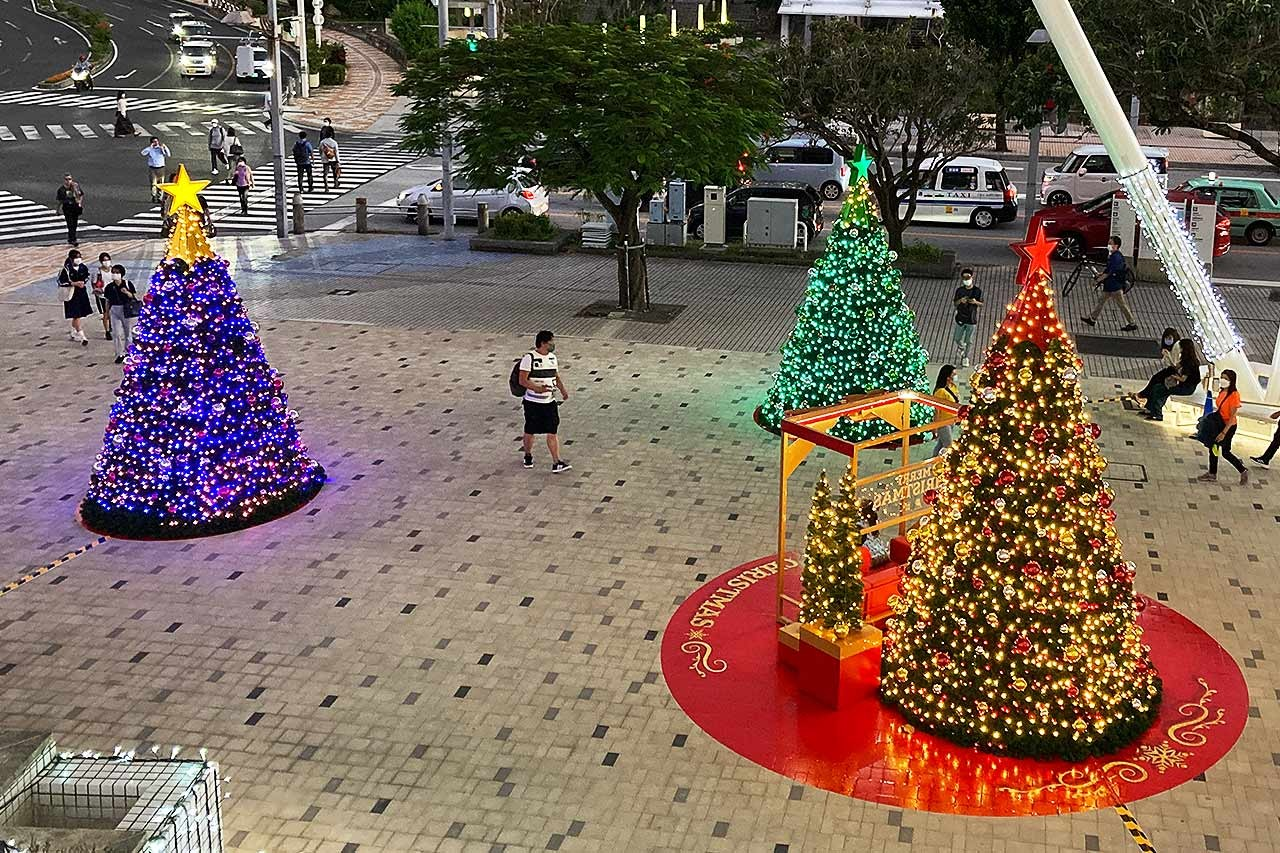
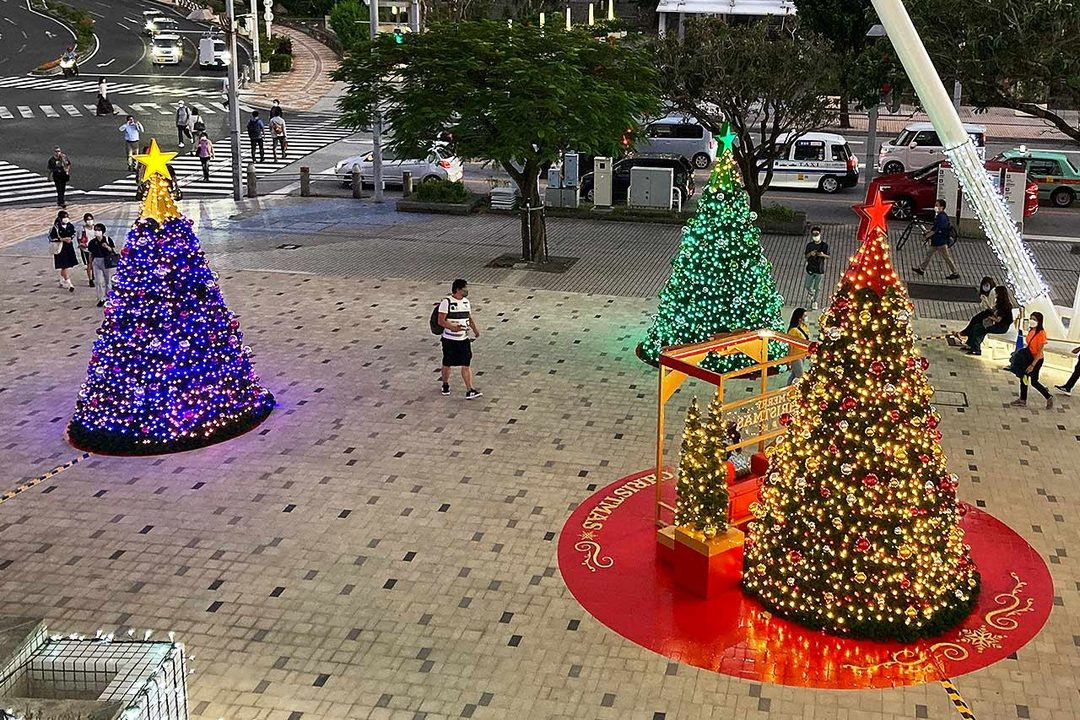
Integrate 2026 Winter Special Events: PARCO CITY & Kumoji illuminations in-line, plus 4-tier Winter Events Showcase in Tools

diff --git a/index.html b/index.html
@@ -1378,16 +1378,20 @@
           <span class="bg-indigo-100 text-indigo-800 text-xs font-black px-2.5 py-1 rounded-full">免稅 10% 優惠</span>
         </div>
 
-        <div class="grid grid-cols-1 sm:grid-cols-3 gap-3 my-2">
-          <div onclick="openImgModal('images/store_3coins_parco.jpg', '3COINS+plus PARCO CITY 店：精緻日系生活雜貨與兒童文具專區')" class="rounded-xl overflow-hidden border border-slate-200 cursor-pointer active:scale-98 transition">
+        <div class="grid grid-cols-2 sm:grid-cols-4 gap-3 my-2">
+          <div onclick="openImgModal('images/event_christmas_parco.jpg', 'PARCO CITY 2F 挑高中庭（Center Plaza）：冬季限定巨型室內聖誕樹與華麗垂飾')" class="rounded-xl overflow-hidden border border-slate-200 cursor-pointer active:scale-98 transition shadow-sm">
+            <img loading="lazy" decoding="async" src="images/event_christmas_parco.jpg" alt="PARCO CITY 巨型聖誕樹" class="w-full h-40 object-cover">
+            <div class="p-2 bg-white text-xs font-bold text-slate-800 truncate">🎄 2F 中庭巨型聖誕樹</div>
+          </div>
+          <div onclick="openImgModal('images/store_3coins_parco.jpg', '3COINS+plus PARCO CITY 店：精緻日系生活雜貨與兒童文具專區')" class="rounded-xl overflow-hidden border border-slate-200 cursor-pointer active:scale-98 transition shadow-sm">
             <img loading="lazy" decoding="async" src="images/store_3coins_parco.jpg" alt="3COINS 店面" class="w-full h-40 object-cover">
             <div class="p-2 bg-white text-xs font-bold text-slate-800 truncate">🛍 3COINS 生活雜貨</div>
           </div>
-          <div onclick="openImgModal('images/parco_sunset.jpg', 'PARCO CITY 戶外觀海甲板：欣賞絕美夕陽染紅東海')" class="rounded-xl overflow-hidden border border-slate-200 cursor-pointer active:scale-98 transition">
+          <div onclick="openImgModal('images/parco_sunset.jpg', 'PARCO CITY 戶外觀海甲板：欣賞絕美夕陽染紅東海')" class="rounded-xl overflow-hidden border border-slate-200 cursor-pointer active:scale-98 transition shadow-sm">
             <img loading="lazy" decoding="async" src="images/parco_sunset.jpg" alt="觀海甲板夕陽" class="w-full h-40 object-cover">
             <div class="p-2 bg-white text-xs font-bold text-slate-800 truncate">🌅 戶外露台夕陽拍照</div>
           </div>
-          <div onclick="openImgModal('images/store_jacks_steak.jpg', '傑克牛排館（Jack Steak House）夜間外觀實景')" class="rounded-xl overflow-hidden border border-slate-200 cursor-pointer active:scale-98 transition">
+          <div onclick="openImgModal('images/store_jacks_steak.jpg', '傑克牛排館（Jack Steak House）夜間外觀實景')" class="rounded-xl overflow-hidden border border-slate-200 cursor-pointer active:scale-98 transition shadow-sm">
             <img loading="lazy" decoding="async" src="images/store_jacks_steak.jpg" alt="傑克牛排" class="w-full h-40 object-cover">
             <div class="p-2 bg-white text-xs font-bold text-slate-800 truncate">🥩 傑克牛排大口吃肉</div>
           </div>
@@ -1396,7 +1400,7 @@
         <div class="space-y-3 text-xs sm:text-sm text-slate-800">
           <div class="flex items-start gap-3">
             <span class="step-badge">1</span>
-            <p><strong>攻佔全沖繩最大旗艦店（14:00 - 17:00）：</strong>Uniqlo、GU、3COINS、無印良品、ABC-MART 集中在同層。媽媽與爸爸為全家補齊發熱衣、冬裝與百元生活雜貨，滿 5,000 円立即由結帳櫃檯退稅 10%。</p>
+            <p><strong>攻佔全沖繩最大旗艦店 ＆ 2F 聖誕樹合影（14:00 - 17:00）：</strong>Uniqlo、GU、3COINS、無印良品、ABC-MART 集中在同層。媽媽與爸爸為全家補齊發熱衣、冬裝與百元生活雜貨，滿 5,000 円立即由結帳櫃檯退稅 10%！<br><span class="text-amber-800 font-bold">🎄【12月聖誕特別亮點】：</span>途經 <strong>2F 挑高中庭（Center Plaza）</strong>，現場矗立著數米高的「巨型室內聖誕樹」與金色華麗垂飾，全家在聖誕樹下拍下絕美全家福！</p>
           </div>
           <div class="flex items-start gap-3">
             <span class="step-badge">2</span>
@@ -1789,12 +1793,16 @@
           <span class="bg-indigo-100 text-indigo-800 text-xs font-black px-2.5 py-1 rounded-full">夜市繁華購物</span>
         </div>
 
-        <div class="grid grid-cols-1 sm:grid-cols-2 gap-3 my-2">
-          <div onclick="openImgModal('images/calbee_poteriko.jpg', 'Calbee+ 現炸 Poteriko 沖繩紅芋薯條：外酥內軟熱氣騰騰')" class="rounded-xl overflow-hidden border border-slate-200 cursor-pointer active:scale-98 transition">
+        <div class="grid grid-cols-1 sm:grid-cols-3 gap-3 my-2">
+          <div onclick="openImgModal('images/event_kumoji_illum.jpg', '縣廳前 Palette Kumoji：冬季久茂地彩燈節（くもじイルミネーション），數萬顆 LED 巨型聖誕樹與浪漫光廊')" class="rounded-xl overflow-hidden border border-slate-200 cursor-pointer active:scale-98 transition shadow-sm">
+            <img loading="lazy" decoding="async" src="images/event_kumoji_illum.jpg" alt="久茂地聖誕彩燈節" class="w-full h-44 object-cover">
+            <div class="p-2 bg-white text-xs font-bold text-slate-800 truncate">✨ 縣廳前久茂地巨型聖誕樹</div>
+          </div>
+          <div onclick="openImgModal('images/calbee_poteriko.jpg', 'Calbee+ 現炸 Poteriko 沖繩紅芋薯條：外酥內軟熱氣騰騰')" class="rounded-xl overflow-hidden border border-slate-200 cursor-pointer active:scale-98 transition shadow-sm">
             <img loading="lazy" decoding="async" src="images/calbee_poteriko.jpg" alt="Calbee+ 現炸紅芋薯條" class="w-full h-44 object-cover">
             <div class="p-2 bg-white text-xs font-bold text-slate-800 truncate">🍟 Calbee+ 現炸紅芋薯條</div>
           </div>
-          <div onclick="openImgModal('images/kokusai_dori.jpg', '國際通熱鬧夜景街景：免稅店、土產店、美食餐廳林立')" class="rounded-xl overflow-hidden border border-slate-200 cursor-pointer active:scale-98 transition">
+          <div onclick="openImgModal('images/kokusai_dori.jpg', '國際通熱鬧夜景街景：免稅店、土產店、美食餐廳林立')" class="rounded-xl overflow-hidden border border-slate-200 cursor-pointer active:scale-98 transition shadow-sm">
             <img loading="lazy" decoding="async" src="images/kokusai_dori.jpg" alt="國際通街景" class="w-full h-44 object-cover">
             <div class="p-2 bg-white text-xs font-bold text-slate-800 truncate">🏮 國際通繁華夜市街景</div>
           </div>
@@ -1804,7 +1812,7 @@
           <div class="font-black text-indigo-900 text-base">【逐步操作說明書】：</div>
           <div class="flex items-start gap-3">
             <span class="step-badge">1</span>
-            <p><strong>計程車 7 分鐘（800 円）抵達國際通：</strong>走出飯店攔計程車直達國際通起點，不用擠單軌電車。</p>
+            <p><strong>計程車 7 分鐘直達國際通起點 ＆ 漫步【縣廳前久茂地聖誕彩燈】：</strong>從 NEST NAHA 搭計程車（車資約 800 円）直接在「縣廳前 Palette Kumoji」下車。12 月夜晚正好迎來<strong>「久茂地冬季彩燈節（くもじイルミネーション）」</strong>，廣場前點亮數萬顆 LED 打造的<strong>巨型聖誕樹</strong>與浪漫光廊！全家先在此拍下絕美聖誕合照，接著步行拐個彎，直接無縫踏入熱鬧的國際通大道！</p>
           </div>
           <div class="flex items-start gap-3">
             <span class="step-badge">2</span>
@@ -2454,6 +2462,199 @@
           </p>
         </div>
       </div>
+
+      
+    <!-- Tool 0: 2026 Winter Special Events & Illuminations Showcase -->
+    <div class="bg-gradient-to-r from-slate-900 via-indigo-950 to-slate-900 text-white rounded-3xl p-6 sm:p-7 card-shadow border-2 border-amber-400/70 space-y-5">
+      <div class="border-b border-indigo-400/30 pb-4 flex flex-wrap items-center justify-between gap-3">
+        <div>
+          <div class="inline-flex items-center gap-1.5 bg-amber-400/20 text-amber-300 text-xs sm:text-sm font-black px-3 py-1 rounded-full border border-amber-400/40">
+            <i class="fa-solid fa-snowflake text-sky-300"></i>
+            <span>2026 沖繩冬季限定・節慶盛典特輯</span>
+          </div>
+          <h3 class="text-xl sm:text-2xl font-black text-white mt-2 flex items-center gap-2">
+            <span>🎄【冬季限定特別活動＆夜間彩燈推薦】</span>
+            <span class="text-xs bg-emerald-500/30 text-emerald-300 border border-emerald-400/40 font-bold px-2.5 py-0.5 rounded-lg hidden sm:inline">四大亮點按車程分級</span>
+          </h3>
+        </div>
+        <span class="text-xs bg-slate-800 text-slate-300 font-bold px-3 py-1.5 rounded-xl border border-slate-700">旅行期間：12/17(四) ~ 12/20(日)</span>
+      </div>
+
+      <p class="text-slate-300 text-xs sm:text-sm leading-relaxed">
+        12月中旬適逢沖繩年度<strong>「冬季夜間彩燈盛典」</strong>與<strong>「野生座頭鯨賞鯨海開首日」</strong>！以下為全家精心篩選距離下榻飯店（THE NEST NAHA）由近至遠的四大特別活動，附上活動實景照片、年齡亮點、車程車資預估、Google 地圖導航與現場溝通字卡，供隨時彈性參考選擇：
+      </p>
+
+      <div class="grid grid-cols-1 md:grid-cols-2 gap-4 pt-1">
+        <!-- Event 1: Whale Watching (4 mins) -->
+        <div class="bg-slate-800/90 rounded-2xl p-4.5 border-2 border-sky-400/50 space-y-3.5 shadow-md flex flex-col justify-between">
+          <div class="space-y-2.5">
+            <div class="flex items-center justify-between gap-2">
+              <span class="bg-sky-500 text-white text-xs font-black px-2.5 py-1 rounded-lg">近距首選・車程 4 分鐘</span>
+              <span class="text-amber-300 text-xs font-bold">12/19(六) 正式海開首航！</span>
+            </div>
+            <h4 class="text-base sm:text-lg font-black text-white">🐋 那霸三重城港・2026 野生座頭鯨賞鯨季首航</h4>
+            
+            <div onclick="openImgModal('images/event_whale_watching.jpg', '那霸三重城港出發：野生座頭鯨冬日洄游沖繩慶良間海域，壯麗破浪跳躍實景（12/19 正式海開）')" class="rounded-xl overflow-hidden border border-slate-700 cursor-pointer active:scale-98 transition shadow-sm">
+              <img loading="lazy" decoding="async" src="images/event_whale_watching.jpg" alt="野生座頭鯨破浪跳躍" class="w-full h-44 object-cover">
+              <div class="p-2 bg-slate-900 text-sky-300 text-xs font-bold truncate">📸 慶良間海域野生座頭鯨破浪躍出海面實景</div>
+            </div>
+
+            <ul class="text-xs text-slate-300 space-y-1.5 leading-relaxed pt-1">
+              <li>• <strong>地點距離：</strong>那霸三重城港（那霸市西 3-20），距離 NEST NAHA 僅 1.3 公里（計程車約 4 分鐘，車資約 600~700 円）。</li>
+              <li>• <strong>活動亮點：</strong>每年冬季野生座頭鯨南下交配育幼，12/19 正好為全沖繩首航日！若不上船，下午去港邊長堤吹風、看探鯨船隊集結出港亦是非常壯闊的海景體驗。</li>
+              <li>• <strong>孩子亮點：</strong>群祐（12歲）能近距離觀測巨型鯨魚噴水甩尾；唯唯（7歲）穿兒童救生衣搭平穩大船探險。</li>
+            </ul>
+          </div>
+
+          <div class="space-y-2 pt-2 border-t border-slate-700">
+            <a href="https://www.google.com/maps/search/?api=1&query=%E4%B8%89%E9%87%8D%E5%9F%8E%E6%B8%AF+%E9%82%A3%E8%A6%87%E5%B8%82%E8%A5%BF3-20" target="_blank" rel="noopener noreferrer" class="inline-flex items-center gap-1.5 bg-emerald-600 hover:bg-emerald-700 active:scale-95 transition text-white text-xs font-black px-3 py-1.5 rounded-xl shadow-sm">
+              <i class="fa-solid fa-map-location-dot text-amber-300"></i>
+              <span>開啟 三重城港 Google 地圖導航</span>
+              <i class="fa-solid fa-arrow-up-right-from-square text-[10px] text-white/80"></i>
+            </a>
+
+            <!-- Cue Card -->
+            <div class="bg-slate-900/90 rounded-xl p-3 border border-sky-400/40 space-y-2 text-xs">
+              <div class="flex items-center justify-between">
+                <span class="text-amber-300 font-bold">🚖 計程車手指字卡：</span>
+                <button onclick="copyDirectText(this)" data-copy="運転手さん、那覇三重城港（那覇市西3-20）までお願いします。ホエールウォッチングの集合場所へ行きます。" class="bg-sky-600 text-white font-bold px-2 py-0.5 rounded text-[11px] active:scale-95 transition">一鍵複製</button>
+              </div>
+              <p class="font-black text-white bg-slate-950 p-2 rounded border border-slate-800">
+                「運転手さん、那覇三重城港（那覇市西3-20）までお願いします。ホエールウォッチングの集合場所へ行きます。」
+              </p>
+              <p class="text-slate-400 text-[11px]">💡 中文：請載我們到那霸三重城港（西3-20），我們要去賞鯨船的集合報到處。</p>
+            </div>
+          </div>
+        </div>
+
+        <!-- Event 2: Itoman Peaceful Illumination (20 mins) -->
+        <div class="bg-slate-800/90 rounded-2xl p-4.5 border-2 border-amber-400/50 space-y-3.5 shadow-md flex flex-col justify-between">
+          <div class="space-y-2.5">
+            <div class="flex items-center justify-between gap-2">
+              <span class="bg-amber-500 text-slate-950 text-xs font-black px-2.5 py-1 rounded-lg">南部亮點・車程 20 分鐘</span>
+              <span class="text-amber-300 text-xs font-bold">每日 18:00 ~ 22:00</span>
+            </div>
+            <h4 class="text-base sm:text-lg font-black text-white">✨ 糸滿海灘和平彩燈節 2026（いとまんピースフル）</h4>
+            
+            <div onclick="openImgModal('images/event_itoman_illumination.jpg', '糸滿美々海灘和平彩燈節：以「光之王國 琉球」為主題，海濱大型琉球城堡光雕投影與冬夜沙灘燈海')" class="rounded-xl overflow-hidden border border-slate-700 cursor-pointer active:scale-98 transition shadow-sm">
+              <img loading="lazy" decoding="async" src="images/event_itoman_illumination.jpg" alt="糸滿和平彩燈節" class="w-full h-44 object-cover">
+              <div class="p-2 bg-slate-900 text-amber-300 text-xs font-bold truncate">📸 糸滿美々海灘大型光雕城堡與燈海實景</div>
+            </div>
+
+            <ul class="text-xs text-slate-300 space-y-1.5 leading-relaxed pt-1">
+              <li>• <strong>地點距離：</strong>美々ビーチいとまん（糸滿市西崎町 1-6-15），搭計程車走南向快速道路約 20~25 分鐘（車資約 3,200~3,600 円）。</li>
+              <li>• <strong>活動亮點：</strong>本島南部規模最大的冬季海濱燈節！2026 主題為「光之王國 ～琉球～」，結合光雕投影與海灘步道。</li>
+              <li>• <strong>孩子亮點：</strong>現場舉辦專為小朋友設計的<strong>「實境尋寶解謎遊戲」</strong>，群祐與唯唯拿著謎題地圖在燈海中闖關！</li>
+            </ul>
+          </div>
+
+          <div class="space-y-2 pt-2 border-t border-slate-700">
+            <a href="https://www.google.com/maps/search/?api=1&query=%E7%BE%8E%E3%80%85%E3%83%93%E3%83%BC%E3%83%81%E3%81%84%E3%81%A8%E3%81%BE%E3%82%93" target="_blank" rel="noopener noreferrer" class="inline-flex items-center gap-1.5 bg-emerald-600 hover:bg-emerald-700 active:scale-95 transition text-white text-xs font-black px-3 py-1.5 rounded-xl shadow-sm">
+              <i class="fa-solid fa-map-location-dot text-amber-300"></i>
+              <span>開啟 美々海灘彩燈節 Google 地圖導航</span>
+              <i class="fa-solid fa-arrow-up-right-from-square text-[10px] text-white/80"></i>
+            </a>
+
+            <!-- Cue Card -->
+            <div class="bg-slate-900/90 rounded-xl p-3 border border-amber-400/40 space-y-2 text-xs">
+              <div class="flex items-center justify-between">
+                <span class="text-amber-300 font-bold">🚖 計程車手指字卡：</span>
+                <button onclick="copyDirectText(this)" data-copy="運転手さん、美々ビーチいとまんのイルミネーション会場までお願いします。" class="bg-sky-600 text-white font-bold px-2 py-0.5 rounded text-[11px] active:scale-95 transition">一鍵複製</button>
+              </div>
+              <p class="font-black text-white bg-slate-950 p-2 rounded border border-slate-800">
+                「運転手さん、美々ビーチいとまんのイルミネーション会場までお願いします。」
+              </p>
+              <p class="text-slate-400 text-[11px]">💡 中文：請載我們到美々海灘（Bibi Beach）的彩燈節活動會場，謝謝。</p>
+            </div>
+          </div>
+        </div>
+
+        <!-- Event 3: American Village Christmas (35 mins) -->
+        <div class="bg-slate-800/90 rounded-2xl p-4.5 border-2 border-purple-400/50 space-y-3.5 shadow-md flex flex-col justify-between">
+          <div class="space-y-2.5">
+            <div class="flex items-center justify-between gap-2">
+              <span class="bg-purple-600 text-white text-xs font-black px-2.5 py-1 rounded-lg">中部經典・車程 35 分鐘</span>
+              <span class="text-purple-300 text-xs font-bold">每日 17:00 ~ 24:00 免費</span>
+            </div>
+            <h4 class="text-base sm:text-lg font-black text-white">🎅 北谷美浜美國村・Christmas Village 聖誕嘉年華</h4>
+            
+            <div onclick="openImgModal('images/event_american_village.jpg', '北谷美浜美國村聖誕夜景：巨型聖誕老人、摩天輪光影與海濱長廊萬顆彩燈')" class="rounded-xl overflow-hidden border border-slate-700 cursor-pointer active:scale-98 transition shadow-sm">
+              <img loading="lazy" decoding="async" src="images/event_american_village.jpg" alt="美國村聖誕嘉年華" class="w-full h-44 object-cover">
+              <div class="p-2 bg-slate-900 text-purple-300 text-xs font-bold truncate">📸 北谷美國村美式童話聖誕彩燈街景實景</div>
+            </div>
+
+            <ul class="text-xs text-slate-300 space-y-1.5 leading-relaxed pt-1">
+              <li>• <strong>地點距離：</strong>北谷町美浜，搭計程車走國道 58 號北上約 35~40 分鐘（車資約 4,500~5,000 円）。</li>
+              <li>• <strong>活動亮點：</strong>街區全體化身歐美復古聖誕小鎮！街道懸掛數萬顆燈飾、巨型聖誕老人爬牆裝置、雪橇麋鹿與薑餅屋。</li>
+              <li>• <strong>孩子亮點：</strong>唯唯 Mia 超愛拍照打卡童話造景；群祐喜歡逛美式玩具古著與海濱步道吃漢堡。</li>
+            </ul>
+          </div>
+
+          <div class="space-y-2 pt-2 border-t border-slate-700">
+            <a href="https://www.google.com/maps/search/?api=1&query=%E7%BE%8E%E6%B5%9C%E3%82%A2%E3%83%A1%E3%83%AA%E3%82%AB%E3%83%B3%E3%83%93%E3%83%AC%E3%83%83%E3%82%B8" target="_blank" rel="noopener noreferrer" class="inline-flex items-center gap-1.5 bg-emerald-600 hover:bg-emerald-700 active:scale-95 transition text-white text-xs font-black px-3 py-1.5 rounded-xl shadow-sm">
+              <i class="fa-solid fa-map-location-dot text-amber-300"></i>
+              <span>開啟 美國村 Google 地圖導航</span>
+              <i class="fa-solid fa-arrow-up-right-from-square text-[10px] text-white/80"></i>
+            </a>
+
+            <!-- Cue Card -->
+            <div class="bg-slate-900/90 rounded-xl p-3 border border-purple-400/40 space-y-2 text-xs">
+              <div class="flex items-center justify-between">
+                <span class="text-amber-300 font-bold">🚖 計程車手指字卡：</span>
+                <button onclick="copyDirectText(this)" data-copy="運転手さん、北谷のアメリカンビレッジまでお願いします。デポアイランドの近くで降ろしてください。" class="bg-sky-600 text-white font-bold px-2 py-0.5 rounded text-[11px] active:scale-95 transition">一鍵複製</button>
+              </div>
+              <p class="font-black text-white bg-slate-950 p-2 rounded border border-slate-800">
+                「運転手さん、北谷のアメリカンビレッジまでお願いします。デポアイランドの近くで降ろしてください。」
+              </p>
+              <p class="text-slate-400 text-[11px]">💡 中文：請載我們到北谷美國村，請在 Depot Island 附近讓我們下車即可，謝謝。</p>
+            </div>
+          </div>
+        </div>
+
+        <!-- Event 4: Southeast Botanical Garden (45 mins) -->
+        <div class="bg-slate-800/90 rounded-2xl p-4.5 border-2 border-emerald-400/50 space-y-3.5 shadow-md flex flex-col justify-between">
+          <div class="space-y-2.5">
+            <div class="flex items-center justify-between gap-2">
+              <span class="bg-emerald-600 text-white text-xs font-black px-2.5 py-1 rounded-lg">全國頂級・車程 45 分鐘</span>
+              <span class="text-emerald-300 text-xs font-bold">日本全國燈節 Top 2</span>
+            </div>
+            <h4 class="text-base sm:text-lg font-black text-white">🌟 東南植物樂園・沖繩南國燈飾（400萬顆光之鯨鯊）</h4>
+            
+            <div onclick="openImgModal('images/event_southeast_botanical.jpg', '東南植物樂園沖繩南國燈飾：日本全國大賞 Top 2，400 萬顆光球打造巨型光之座頭鯨與水上睡蓮燈海')" class="rounded-xl overflow-hidden border border-slate-700 cursor-pointer active:scale-98 transition shadow-sm">
+              <img loading="lazy" decoding="async" src="images/event_southeast_botanical.jpg" alt="東南植物樂園燈飾" class="w-full h-44 object-cover">
+              <div class="p-2 bg-slate-900 text-emerald-300 text-xs font-bold truncate">📸 400 萬顆光球打造巨型花卉與光之鯨鯊燈海實景</div>
+            </div>
+
+            <ul class="text-xs text-slate-300 space-y-1.5 leading-relaxed pt-1">
+              <li>• <strong>地點距離：</strong>沖縄市知花 2146，搭計程車經沖繩自動車道約 45 分鐘（車資約 6,500~7,500 円；門票大人 2,100 円/兒童 1,000 円）。</li>
+              <li>• <strong>活動亮點：</strong>連續多年榮獲全日本「燈節大賞」全國第二名！廣達數萬坪的植物園被 400 萬顆彩燈點亮，設有音樂雷射連動秀。</li>
+              <li>• <strong>孩子亮點：</strong>草坪上超震撼的<strong>「光之巨型座頭鯨」</strong>與水上發光蓮花池，是沖繩最具代表性的冬季光影震撼大作。</li>
+            </ul>
+          </div>
+
+          <div class="space-y-2 pt-2 border-t border-slate-700">
+            <a href="https://www.google.com/maps/search/?api=1&query=%E6%9D%B1%E5%8D%97%E6%A4%8D%E7%89%A9%E6%A8%82%E5%9C%92" target="_blank" rel="noopener noreferrer" class="inline-flex items-center gap-1.5 bg-emerald-600 hover:bg-emerald-700 active:scale-95 transition text-white text-xs font-black px-3 py-1.5 rounded-xl shadow-sm">
+              <i class="fa-solid fa-map-location-dot text-amber-300"></i>
+              <span>開啟 東南植物樂園 Google 地圖導航</span>
+              <i class="fa-solid fa-arrow-up-right-from-square text-[10px] text-white/80"></i>
+            </a>
+
+            <!-- Cue Card -->
+            <div class="bg-slate-900/90 rounded-xl p-3 border border-emerald-400/40 space-y-2 text-xs">
+              <div class="flex items-center justify-between">
+                <span class="text-amber-300 font-bold">🚖 計程車手指字卡：</span>
+                <button onclick="copyDirectText(this)" data-copy="運転手さん、沖縄市の東南植物楽園のイルミネーション会場までお願いします。高速道路を使ってください。" class="bg-sky-600 text-white font-bold px-2 py-0.5 rounded text-[11px] active:scale-95 transition">一鍵複製</button>
+              </div>
+              <p class="font-black text-white bg-slate-950 p-2 rounded border border-slate-800">
+                「運転手さん、沖縄市の東南植物楽園のイルミネーション会場までお願いします。高速道路を使ってください。」
+              </p>
+              <p class="text-slate-400 text-[11px]">💡 中文：請載我們到沖繩市東南植物樂園彩燈會場，請走高速公路（自動車道），謝謝。</p>
+            </div>
+          </div>
+        </div>
+      </div>
+    </div>
+
 
       <!-- Tool 1: Japanese Communication Cards -->
       <div class="bg-white rounded-2xl p-5 card-shadow border-2 border-slate-200 space-y-4">
